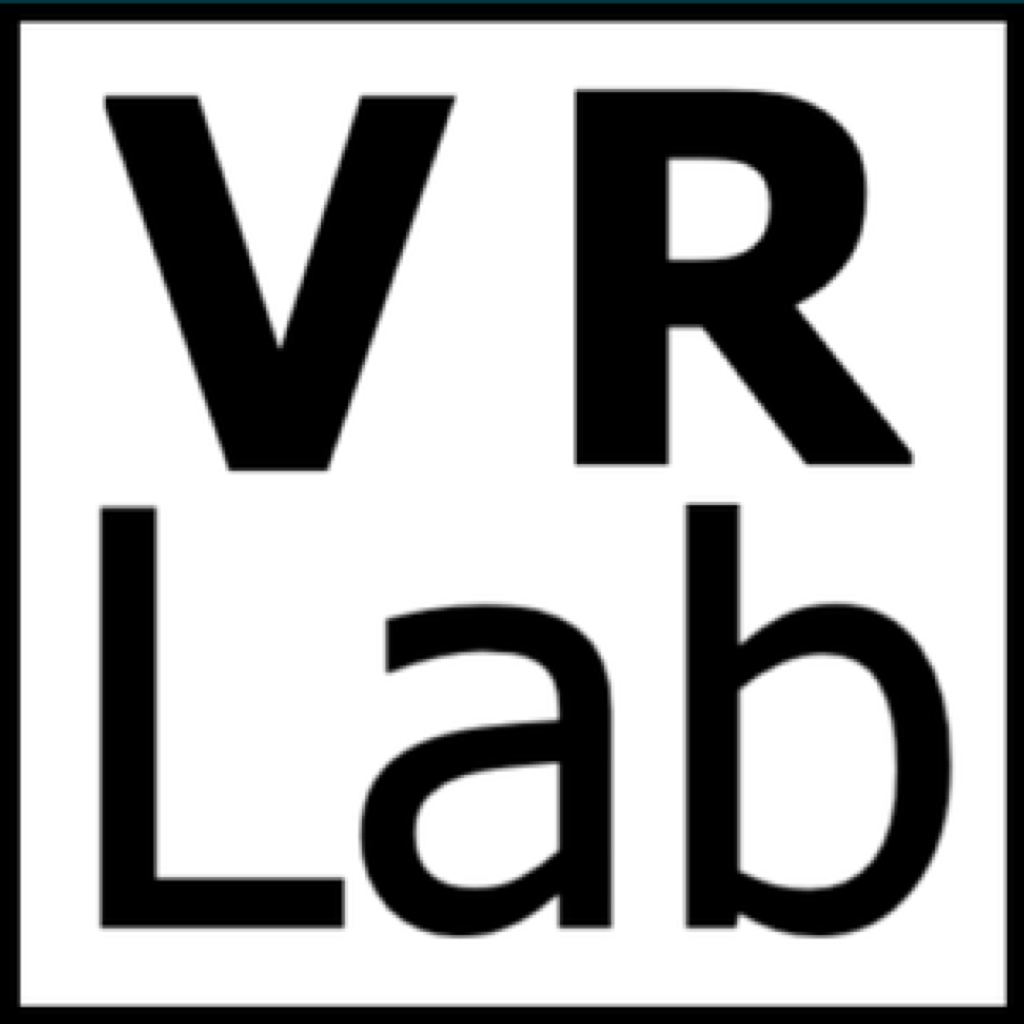
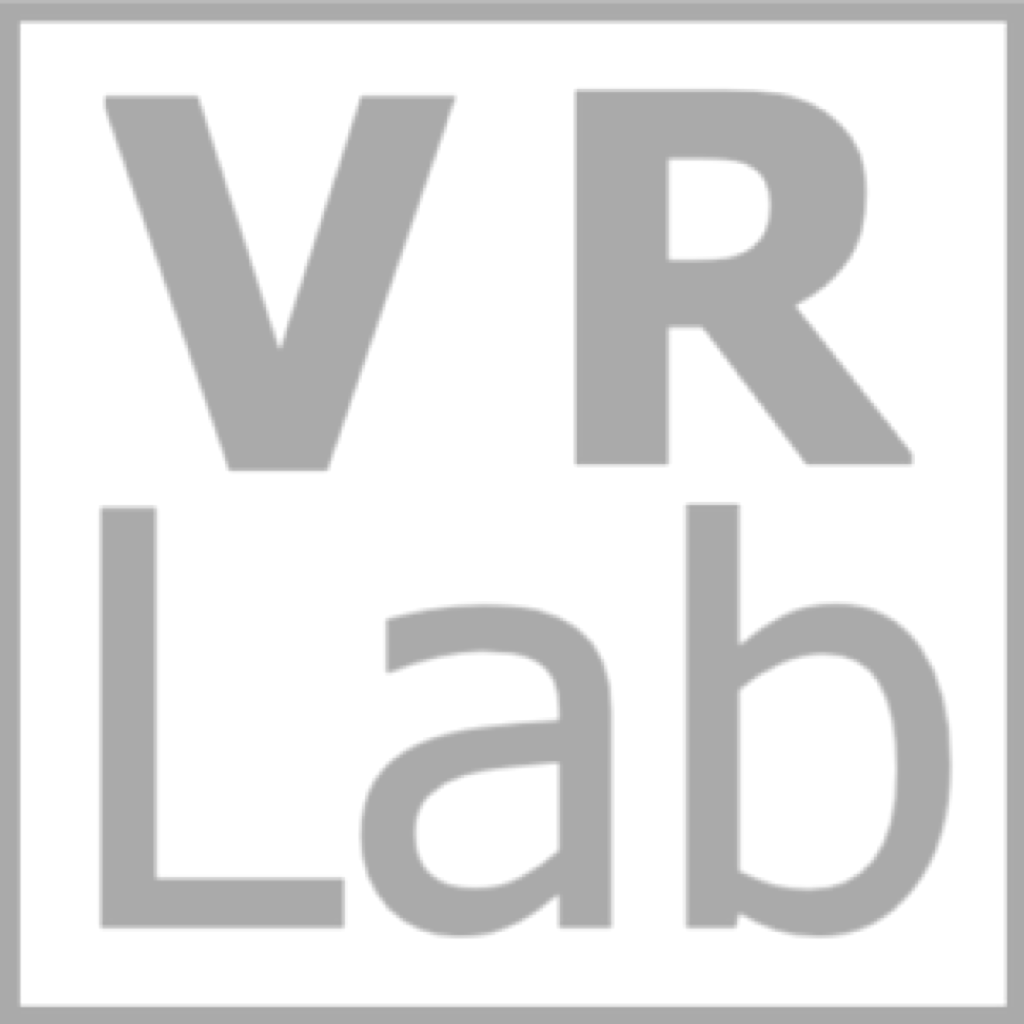
intro

diff --git a/assets/scss/custom.scss b/assets/scss/custom.scss
@@ -254,8 +254,14 @@ $light-grey: #E3E3E5;
   flex-direction: column;
 }
 .experience-image {
-  max-width: 60px;
+  flex: 0 0 60px;
+  width: 60px;
   margin-right: 10px;
+}
+.experience-image img {
+  display: block;
+  width: 100%;
+  height: auto;
 }
 /* tag cloud */
 .tag-cloud-nav {

diff --git a/content/authors/admin/_index.md b/content/authors/admin/_index.md
@@ -16,7 +16,7 @@ organizations:
   url: https://www.birmingham.ac.uk/
 
 # Short bio (displayed in user profile at end of posts)
-bio: Associate Professor in Psychology and Computer Science at the University of Birmingham, leading interdisciplinary research in multisensory perception, extended reality, haptics, and computational cognitive science.
+bio: Associate Professor in Psychology and Computer Science at the University of Birmingham, studying human perception and interaction in dynamic, technology-mediated environments.
 
 # Research areas to show in About widget
 interests:
@@ -97,6 +97,6 @@ email: ""
 highlight_name: true
 ---
 
-Massimiliano Di Luca is Associate Professor in Psychology and Computer Science at the University of Birmingham. He is an interdisciplinary research leader in multisensory perception, extended reality, haptics, and computational cognitive science. His research programme combines multisensory perception, haptics, computational modelling, and XR technologies to understand human interaction with dynamic environments and to design perceptually grounded immersive systems. He leads interdisciplinary research, infrastructure, software, datasets, and translational activity across Psychology, Computer Science, [BhamXR](https://www.birmingham.ac.uk/research/centres-institutes/bhamxr), the [University of Birmingham VR Lab](https://virtualrealitylab.netlify.app/), and industry-facing projects including [ARME](https://arme-project.co.uk/) and [MyJAMS](https://myjamsltd.netlify.app/).
+Massimiliano Di Luca is Associate Professor in Psychology and Computer Science at the University of Birmingham. His research asks how people perceive, predict, and act in dynamic environments, and how that knowledge can be used to design technologies that feel responsive, intelligible, and grounded in human behaviour.
 
-His work has produced funded research programmes, open research resources, software, public datasets, industry collaborations, spin-out activity, and interdisciplinary infrastructure for XR, haptics, and multisensory perception.
+He leads interdisciplinary research, infrastructure, software, datasets, and translational activity across Psychology, Computer Science, [BhamXR](https://www.birmingham.ac.uk/research/centres-institutes/bhamxr), the [University of Birmingham VR Lab](https://virtualrealitylab.netlify.app/), and industry-facing projects including [ARME](https://arme-project.co.uk/) and [MyJAMS](https://myjamsltd.netlify.app/). His work has produced funded research programmes, open resources, public datasets, industry collaborations, spin-out activity, and tools used by research and creative communities.